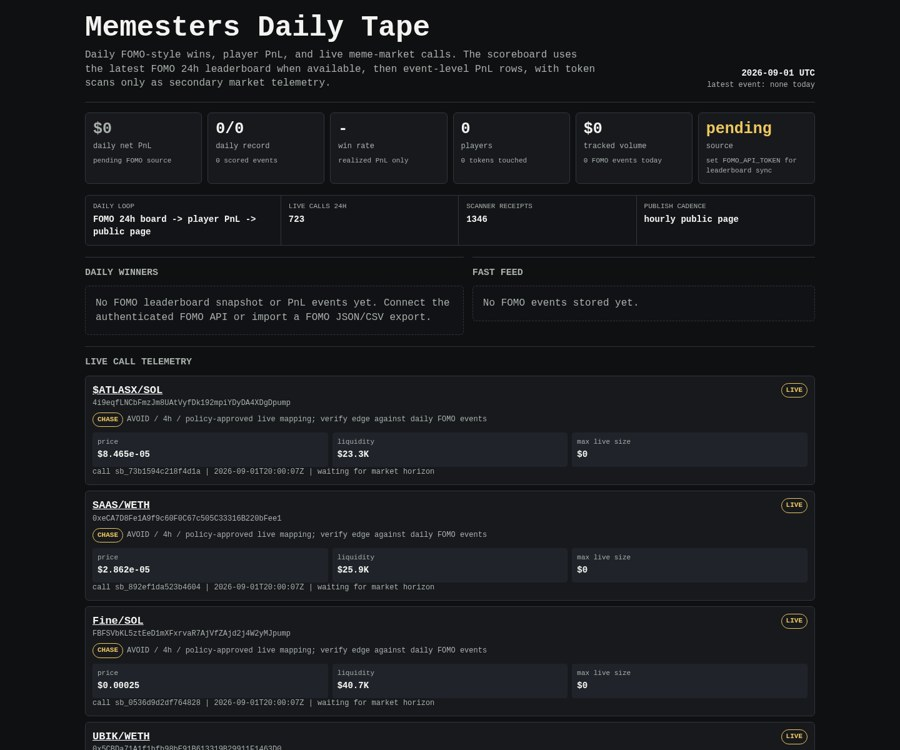
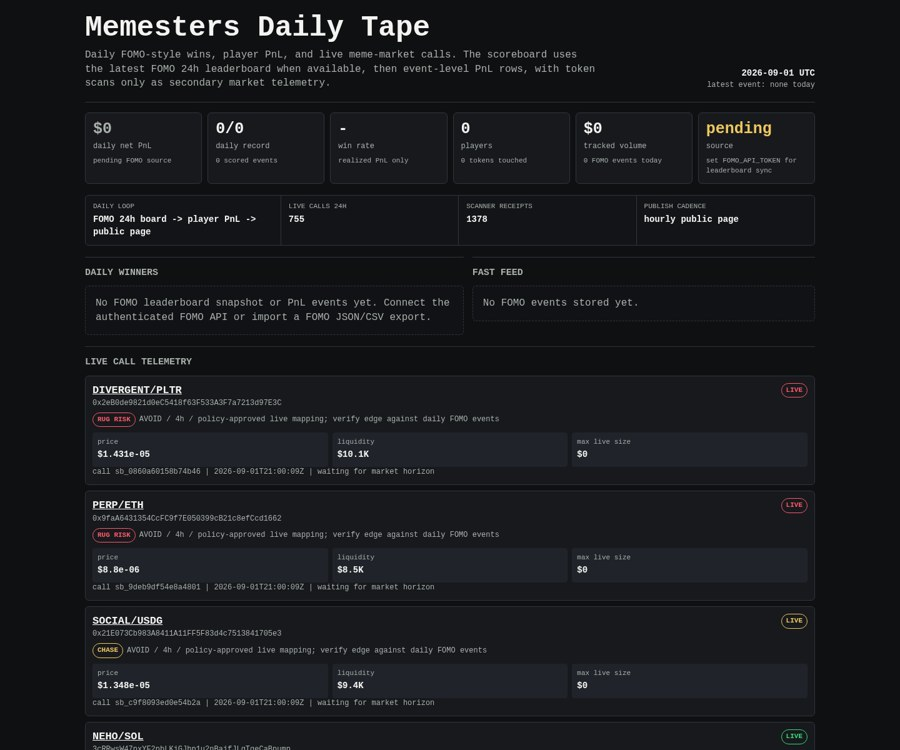
Update Memesters scoreboard

diff --git a/memesters/index.html b/memesters/index.html
@@ -149,8 +149,8 @@
 
     <div class="rail" aria-label="live operating loop">
       <div><span>daily loop</span><b>FOMO 24h board -> player PnL -> public page</b></div>
-      <div><span>live calls 24h</span><b>723</b></div>
-      <div><span>scanner receipts</span><b>1346</b></div>
+      <div><span>live calls 24h</span><b>755</b></div>
+      <div><span>scanner receipts</span><b>1378</b></div>
       <div><span>publish cadence</span><b>hourly public page</b></div>
     </div>
 
@@ -171,176 +171,8 @@
     <article class="receipt">
       <div class="receipt-head">
         <div>
-          <div class="pair"><a href="https://dexscreener.com/solana/gkr1j5wdt4nfex7cqk33yzcnancnqjgaicpdzylrwaob">$ATLASX/SOL</a></div>
-          <div class="addr">4i9eqfLNCbFmzJm8UAtVyfDk192mpiYDyDA4XDgDpump</div>
-          <div class="addr policy-line">
-            <span class="badge chase">CHASE</span>
-            <span>AVOID / 4h / policy-approved live mapping; verify edge against daily FOMO events</span>
-          </div>
-        </div>
-        <span class="badge chase">LIVE</span>
-      </div>
-      <div class="receipt-grid">
-        <div class="kv"><span>price</span><b>$8.465e-05</b></div>
-        <div class="kv"><span>liquidity</span><b>$23.3K</b></div>
-        <div class="kv"><span>max live size</span><b>$0</b></div>
-      </div>
-      <div class="outcomes">call sb_73b1594c218f4d1a | 2026-09-01T20:00:07Z | waiting for market horizon</div>
-    </article>
-    
-
-    <article class="receipt">
-      <div class="receipt-head">
-        <div>
-          <div class="pair"><a href="https://dexscreener.com/robinhood/0x93a98742d31d088d16054118895fcd064e20753e784e6cdbf194d9c553d2df21">SAAS/WETH</a></div>
-          <div class="addr">0xeCA7D8Fe1A9f9c60F0C67c505C33316B220bFee1</div>
-          <div class="addr policy-line">
-            <span class="badge chase">CHASE</span>
-            <span>AVOID / 4h / policy-approved live mapping; verify edge against daily FOMO events</span>
-          </div>
-        </div>
-        <span class="badge chase">LIVE</span>
-      </div>
-      <div class="receipt-grid">
-        <div class="kv"><span>price</span><b>$2.862e-05</b></div>
-        <div class="kv"><span>liquidity</span><b>$25.9K</b></div>
-        <div class="kv"><span>max live size</span><b>$0</b></div>
-      </div>
-      <div class="outcomes">call sb_892ef1da523b4604 | 2026-09-01T20:00:07Z | waiting for market horizon</div>
-    </article>
-    
-
-    <article class="receipt">
-      <div class="receipt-head">
-        <div>
-          <div class="pair"><a href="https://dexscreener.com/solana/3ghcj1vwd1knwm3l87r2dppygi81cbswcbw7ykewwal5">Fine/SOL</a></div>
-          <div class="addr">FBFSVbKL5ztEeD1mXFxrvaR7AjVfZAjd2j4W2yMJpump</div>
-          <div class="addr policy-line">
-            <span class="badge chase">CHASE</span>
-            <span>AVOID / 4h / policy-approved live mapping; verify edge against daily FOMO events</span>
-          </div>
-        </div>
-        <span class="badge chase">LIVE</span>
-      </div>
-      <div class="receipt-grid">
-        <div class="kv"><span>price</span><b>$0.00025</b></div>
-        <div class="kv"><span>liquidity</span><b>$40.7K</b></div>
-        <div class="kv"><span>max live size</span><b>$0</b></div>
-      </div>
-      <div class="outcomes">call sb_0536d9d2df764828 | 2026-09-01T20:00:07Z | waiting for market horizon</div>
-    </article>
-    
-
-    <article class="receipt">
-      <div class="receipt-head">
-        <div>
-          <div class="pair"><a href="https://dexscreener.com/robinhood/0xa14f130debf5359fc73683edfbc20ce1a02cd77a">UBIK/WETH</a></div>
-          <div class="addr">0x5CBDa71A1f1bfb98bE91B613319B29911F1463D0</div>
-          <div class="addr policy-line">
-            <span class="badge chase">CHASE</span>
-            <span>AVOID / 4h / policy-approved live mapping; verify edge against daily FOMO events</span>
-          </div>
-        </div>
-        <span class="badge chase">LIVE</span>
-      </div>
-      <div class="receipt-grid">
-        <div class="kv"><span>price</span><b>$0.0003344</b></div>
-        <div class="kv"><span>liquidity</span><b>$58.6K</b></div>
-        <div class="kv"><span>max live size</span><b>$0</b></div>
-      </div>
-      <div class="outcomes">call sb_30f1d25b20ca456b | 2026-09-01T20:00:07Z | waiting for market horizon</div>
-    </article>
-    
-
-    <article class="receipt">
-      <div class="receipt-head">
-        <div>
-          <div class="pair"><a href="https://dexscreener.com/solana/cddqwx9peav17pbrifqr8hpgnsanvhesjbaj5yz3vgdv">MEMEX/USDC</a></div>
-          <div class="addr">6wZEEcfoMLEjFhMQyckgESYdzPBsdKxmHPWzP4oVMEMe</div>
-          <div class="addr policy-line">
-            <span class="badge early">EARLY</span>
-            <span>BUY / 1h / policy-approved live mapping; verify edge against daily FOMO events</span>
-          </div>
-        </div>
-        <span class="badge early">LIVE</span>
-      </div>
-      <div class="receipt-grid">
-        <div class="kv"><span>price</span><b>$2.83e-05</b></div>
-        <div class="kv"><span>liquidity</span><b>$13.4K</b></div>
-        <div class="kv"><span>max live size</span><b>$46</b></div>
-      </div>
-      <div class="outcomes">call sb_a18b582908cd4029 | 2026-09-01T20:00:07Z | waiting for market horizon</div>
-    </article>
-    
-
-    <article class="receipt">
-      <div class="receipt-head">
-        <div>
-          <div class="pair"><a href="https://dexscreener.com/solana/dpzrzwpg8pmtlmadgvxzngflrh1e1f8dmuar1yw8i4yh">rounds/SOL</a></div>
-          <div class="addr">5hpJtD4qvft1GBqu19v4s7GvLCSXKYt7hxrdKERBpump</div>
-          <div class="addr policy-line">
-            <span class="badge chase">CHASE</span>
-            <span>AVOID / 4h / policy-approved live mapping; verify edge against daily FOMO events</span>
-          </div>
-        </div>
-        <span class="badge chase">LIVE</span>
-      </div>
-      <div class="receipt-grid">
-        <div class="kv"><span>price</span><b>$0.0001235</b></div>
-        <div class="kv"><span>liquidity</span><b>$28.3K</b></div>
-        <div class="kv"><span>max live size</span><b>$0</b></div>
-      </div>
-      <div class="outcomes">call sb_519381adbae74c03 | 2026-09-01T20:00:07Z | waiting for market horizon</div>
-    </article>
-    
-
-    <article class="receipt">
-      <div class="receipt-head">
-        <div>
-          <div class="pair"><a href="https://dexscreener.com/solana/heddngdurybx1hm4vucwdadkbnjqar5x7nmglkthanvq">SOLSTOCK/SOL</a></div>
-          <div class="addr">AQV3ERV9wsMXYi7HC4LPef4NvXTzXZANUF76yMJRpump</div>
-          <div class="addr policy-line">
-            <span class="badge chase">CHASE</span>
-            <span>AVOID / 4h / policy-approved live mapping; verify edge against daily FOMO events</span>
-          </div>
-        </div>
-        <span class="badge chase">LIVE</span>
-      </div>
-      <div class="receipt-grid">
-        <div class="kv"><span>price</span><b>$0.0001485</b></div>
-        <div class="kv"><span>liquidity</span><b>$31.2K</b></div>
-        <div class="kv"><span>max live size</span><b>$0</b></div>
-      </div>
-      <div class="outcomes">call sb_8760d512f9ba45df | 2026-09-01T20:00:07Z | waiting for market horizon</div>
-    </article>
-    
-
-    <article class="receipt">
-      <div class="receipt-head">
-        <div>
-          <div class="pair"><a href="https://dexscreener.com/robinhood/0x91fc78cf7f61760346ca4f8b703480ead3ed713fac049a5e1c053ff500288177">Vlad/USDG</a></div>
-          <div class="addr">0xfa8cc5Cc88976A9C3D0F590e3bc0758a7D2D3ca8</div>
-          <div class="addr policy-line">
-            <span class="badge early">EARLY</span>
-            <span>BUY / 1h / policy-approved live mapping; verify edge against daily FOMO events</span>
-          </div>
-        </div>
-        <span class="badge early">LIVE</span>
-      </div>
-      <div class="receipt-grid">
-        <div class="kv"><span>price</span><b>$5.41e-05</b></div>
-        <div class="kv"><span>liquidity</span><b>$18.9K</b></div>
-        <div class="kv"><span>max live size</span><b>$227</b></div>
-      </div>
-      <div class="outcomes">call sb_ee338003e4b84a32 | 2026-09-01T19:45:06Z | waiting for market horizon</div>
-    </article>
-    
-
-    <article class="receipt">
-      <div class="receipt-head">
-        <div>
-          <div class="pair"><a href="https://dexscreener.com/solana/9wrvuaehzrd39kybl4fju5jdqyuetbvuhowb78pzdmyp">SOLLIFE/SOL</a></div>
-          <div class="addr">HXVxaQsTG6VMZG7peAdyfL4tfgynQvHgxkaeVHdBpump</div>
+          <div class="pair"><a href="https://dexscreener.com/robinhood/0x60e2f0f76a255e26a95b54d00f8cdf22863abbd6347dc9cccdc73a491f09b625">DIVERGENT/PLTR</a></div>
+          <div class="addr">0x2eB0de9821d0eC5418f63F533A3F7a7213d97E3C</div>
           <div class="addr policy-line">
             <span class="badge rug-risk">RUG RISK</span>
             <span>AVOID / 4h / policy-approved live mapping; verify edge against daily FOMO events</span>
@@ -349,19 +181,40 @@
         <span class="badge rug-risk">LIVE</span>
       </div>
       <div class="receipt-grid">
-        <div class="kv"><span>price</span><b>$1.981e-06</b></div>
-        <div class="kv"><span>liquidity</span><b>$2.1K</b></div>
+        <div class="kv"><span>price</span><b>$1.431e-05</b></div>
+        <div class="kv"><span>liquidity</span><b>$10.1K</b></div>
         <div class="kv"><span>max live size</span><b>$0</b></div>
       </div>
-      <div class="outcomes">call sb_b9a46a4730f1414d | 2026-09-01T19:45:06Z | waiting for market horizon</div>
+      <div class="outcomes">call sb_0860a60158b74b46 | 2026-09-01T21:00:09Z | waiting for market horizon</div>
     </article>
     
 
     <article class="receipt">
       <div class="receipt-head">
         <div>
-          <div class="pair"><a href="https://dexscreener.com/robinhood/0xaf4cfbc8b6ff47671a3c8d1985a27749e0a872fc1e764742151aa3e9badb8747">OPTIX/USDG</a></div>
-          <div class="addr">0x6A02ec721fdFAC1305EC79Ab965e255F863F72cf</div>
+          <div class="pair"><a href="https://dexscreener.com/robinhood/0x32a3a5999e7894e713e2cb2b8f6a67070b43478bb182ebf4d4f1111dc322b887">PERP/ETH</a></div>
+          <div class="addr">0x9faA6431354CcFC9f7E050399cB21c8efCcd1662</div>
+          <div class="addr policy-line">
+            <span class="badge rug-risk">RUG RISK</span>
+            <span>AVOID / 4h / policy-approved live mapping; verify edge against daily FOMO events</span>
+          </div>
+        </div>
+        <span class="badge rug-risk">LIVE</span>
+      </div>
+      <div class="receipt-grid">
+        <div class="kv"><span>price</span><b>$8.8e-06</b></div>
+        <div class="kv"><span>liquidity</span><b>$8.5K</b></div>
+        <div class="kv"><span>max live size</span><b>$0</b></div>
+      </div>
+      <div class="outcomes">call sb_9deb9df54e8a4801 | 2026-09-01T21:00:09Z | waiting for market horizon</div>
+    </article>
+    
+
+    <article class="receipt">
+      <div class="receipt-head">
+        <div>
+          <div class="pair"><a href="https://dexscreener.com/robinhood/0x45e5aad56387f1dc175dd866be754f562f16b2b24e04bb7bafe3e059450e5289">SOCIAL/USDG</a></div>
+          <div class="addr">0x21E073Cb983A8411A11FF5F83d4c7513841705e3</div>
           <div class="addr policy-line">
             <span class="badge chase">CHASE</span>
             <span>AVOID / 4h / policy-approved live mapping; verify edge against daily FOMO events</span>
@@ -370,11 +223,158 @@
         <span class="badge chase">LIVE</span>
       </div>
       <div class="receipt-grid">
-        <div class="kv"><span>price</span><b>$0.0001337</b></div>
-        <div class="kv"><span>liquidity</span><b>$60.6K</b></div>
+        <div class="kv"><span>price</span><b>$1.348e-05</b></div>
+        <div class="kv"><span>liquidity</span><b>$9.4K</b></div>
         <div class="kv"><span>max live size</span><b>$0</b></div>
       </div>
-      <div class="outcomes">call sb_24368beffe3b4d0f | 2026-09-01T19:45:06Z | waiting for market horizon</div>
+      <div class="outcomes">call sb_c9f8093ed0e54b2a | 2026-09-01T21:00:09Z | waiting for market horizon</div>
+    </article>
+    
+
+    <article class="receipt">
+      <div class="receipt-head">
+        <div>
+          <div class="pair"><a href="https://dexscreener.com/solana/ewf6y6gengrkfzphkp3wuh4uknniytstbsbqf8xv5xan">NEHO/SOL</a></div>
+          <div class="addr">3cRRwsW47pxYF2pbLKjGJhp1u2nBajfJLgTqeCaBpump</div>
+          <div class="addr policy-line">
+            <span class="badge early">EARLY</span>
+            <span>BUY / 1h / policy-approved live mapping; verify edge against daily FOMO events</span>
+          </div>
+        </div>
+        <span class="badge early">LIVE</span>
+      </div>
+      <div class="receipt-grid">
+        <div class="kv"><span>price</span><b>$3.967e-05</b></div>
+        <div class="kv"><span>liquidity</span><b>$15.0K</b></div>
+        <div class="kv"><span>max live size</span><b>$49</b></div>
+      </div>
+      <div class="outcomes">call sb_230da48eaac44ab1 | 2026-09-01T21:00:09Z | waiting for market horizon</div>
+    </article>
+    
+
+    <article class="receipt">
+      <div class="receipt-head">
+        <div>
+          <div class="pair"><a href="https://dexscreener.com/solana/2fsfaajwvf9kzlu7qcdxsh32ryy3fadccznancg845pm">DUCK/SOL</a></div>
+          <div class="addr">44HivRciwQyZwzjL5DduNyb14Pq6cmnKNm5uz9c4fLAM</div>
+          <div class="addr policy-line">
+            <span class="badge rug-risk">RUG RISK</span>
+            <span>AVOID / 4h / policy-approved live mapping; verify edge against daily FOMO events</span>
+          </div>
+        </div>
+        <span class="badge rug-risk">LIVE</span>
+      </div>
+      <div class="receipt-grid">
+        <div class="kv"><span>price</span><b>$1.724e-05</b></div>
+        <div class="kv"><span>liquidity</span><b>$9.5K</b></div>
+        <div class="kv"><span>max live size</span><b>$0</b></div>
+      </div>
+      <div class="outcomes">call sb_c873394023544c8b | 2026-09-01T21:00:09Z | waiting for market horizon</div>
+    </article>
+    
+
+    <article class="receipt">
+      <div class="receipt-head">
+        <div>
+          <div class="pair"><a href="https://dexscreener.com/robinhood/0x2e7d59da0575a6b12ec17ffed381102f8c244ba6e8c4e76aaa9a6ec3b2c71755">RDC/RDDT</a></div>
+          <div class="addr">0x80997Fc9014531C6B8d2E4c2Ba54af0bB11A73BF</div>
+          <div class="addr policy-line">
+            <span class="badge early">EARLY</span>
+            <span>BUY / 1h / policy-approved live mapping; verify edge against daily FOMO events</span>
+          </div>
+        </div>
+        <span class="badge early">LIVE</span>
+      </div>
+      <div class="receipt-grid">
+        <div class="kv"><span>price</span><b>$4.564e-05</b></div>
+        <div class="kv"><span>liquidity</span><b>$16.0K</b></div>
+        <div class="kv"><span>max live size</span><b>$153</b></div>
+      </div>
+      <div class="outcomes">call sb_6edd469313fc4b6b | 2026-09-01T21:00:08Z | waiting for market horizon</div>
+    </article>
+    
+
+    <article class="receipt">
+      <div class="receipt-head">
+        <div>
+          <div class="pair"><a href="https://dexscreener.com/solana/g2qxhnpdtdtlcutrwaczrcq97i6kgxmylijtnuvrcwtf">Jew/SOL</a></div>
+          <div class="addr">44XweXSCVwtMQ2twmXWQdRPwS1QrPGV2aj76YPLNpump</div>
+          <div class="addr policy-line">
+            <span class="badge rug-risk">RUG RISK</span>
+            <span>AVOID / 4h / policy-approved live mapping; verify edge against daily FOMO events</span>
+          </div>
+        </div>
+        <span class="badge rug-risk">LIVE</span>
+      </div>
+      <div class="receipt-grid">
+        <div class="kv"><span>price</span><b>$1.976e-05</b></div>
+        <div class="kv"><span>liquidity</span><b>$10.1K</b></div>
+        <div class="kv"><span>max live size</span><b>$0</b></div>
+      </div>
+      <div class="outcomes">call sb_e10121b30f4847b8 | 2026-09-01T21:00:08Z | waiting for market horizon</div>
+    </article>
+    
+
+    <article class="receipt">
+      <div class="receipt-head">
+        <div>
+          <div class="pair"><a href="https://dexscreener.com/robinhood/0xd9c912f769fee4480955a2fd4e42f2a5c611e58606eba3f1d0351e0d6bb144d9">BERRY/ETH</a></div>
+          <div class="addr">0x78D934309808cEf150de24Af46E65f3d17493898</div>
+          <div class="addr policy-line">
+            <span class="badge rug-risk">RUG RISK</span>
+            <span>AVOID / 4h / policy-approved live mapping; verify edge against daily FOMO events</span>
+          </div>
+        </div>
+        <span class="badge rug-risk">LIVE</span>
+      </div>
+      <div class="receipt-grid">
+        <div class="kv"><span>price</span><b>$1.529e-05</b></div>
+        <div class="kv"><span>liquidity</span><b>$11.3K</b></div>
+        <div class="kv"><span>max live size</span><b>$0</b></div>
+      </div>
+      <div class="outcomes">call sb_a24258452f4f44e8 | 2026-09-01T21:00:08Z | waiting for market horizon</div>
+    </article>
+    
+
+    <article class="receipt">
+      <div class="receipt-head">
+        <div>
+          <div class="pair"><a href="https://dexscreener.com/robinhood/0xb68749a1c2a26c9aec935b46c70c7fc8dd4f57da">Sadcat/WETH</a></div>
+          <div class="addr">0x4e46c8d06EA17A50f27c42e03F5015aA2670ffcA</div>
+          <div class="addr policy-line">
+            <span class="badge chase">CHASE</span>
+            <span>AVOID / 4h / policy-approved live mapping; verify edge against daily FOMO events</span>
+          </div>
+        </div>
+        <span class="badge chase">LIVE</span>
+      </div>
+      <div class="receipt-grid">
+        <div class="kv"><span>price</span><b>$0.0001136</b></div>
+        <div class="kv"><span>liquidity</span><b>$53.6K</b></div>
+        <div class="kv"><span>max live size</span><b>$0</b></div>
+      </div>
+      <div class="outcomes">call sb_055deed94c4a4bc4 | 2026-09-01T20:45:07Z | waiting for market horizon</div>
+    </article>
+    
+
+    <article class="receipt">
+      <div class="receipt-head">
+        <div>
+          <div class="pair"><a href="https://dexscreener.com/robinhood/0x3d0ee26a1d35fc900900bbe1dbac6494996c170051ecf7b49372124bff91688f">HORSY/SPY</a></div>
+          <div class="addr">0x143bAC064663FC93d92b62836FCf2C7207eA969a</div>
+          <div class="addr policy-line">
+            <span class="badge rug-risk">RUG RISK</span>
+            <span>AVOID / 4h / policy-approved live mapping; verify edge against daily FOMO events</span>
+          </div>
+        </div>
+        <span class="badge rug-risk">LIVE</span>
+      </div>
+      <div class="receipt-grid">
+        <div class="kv"><span>price</span><b>$6.506e-05</b></div>
+        <div class="kv"><span>liquidity</span><b>$21.0K</b></div>
+        <div class="kv"><span>max live size</span><b>$0</b></div>
+      </div>
+      <div class="outcomes">call sb_35b4ad4c83c94228 | 2026-09-01T20:45:07Z | waiting for market horizon</div>
     </article>
     
     </section>
